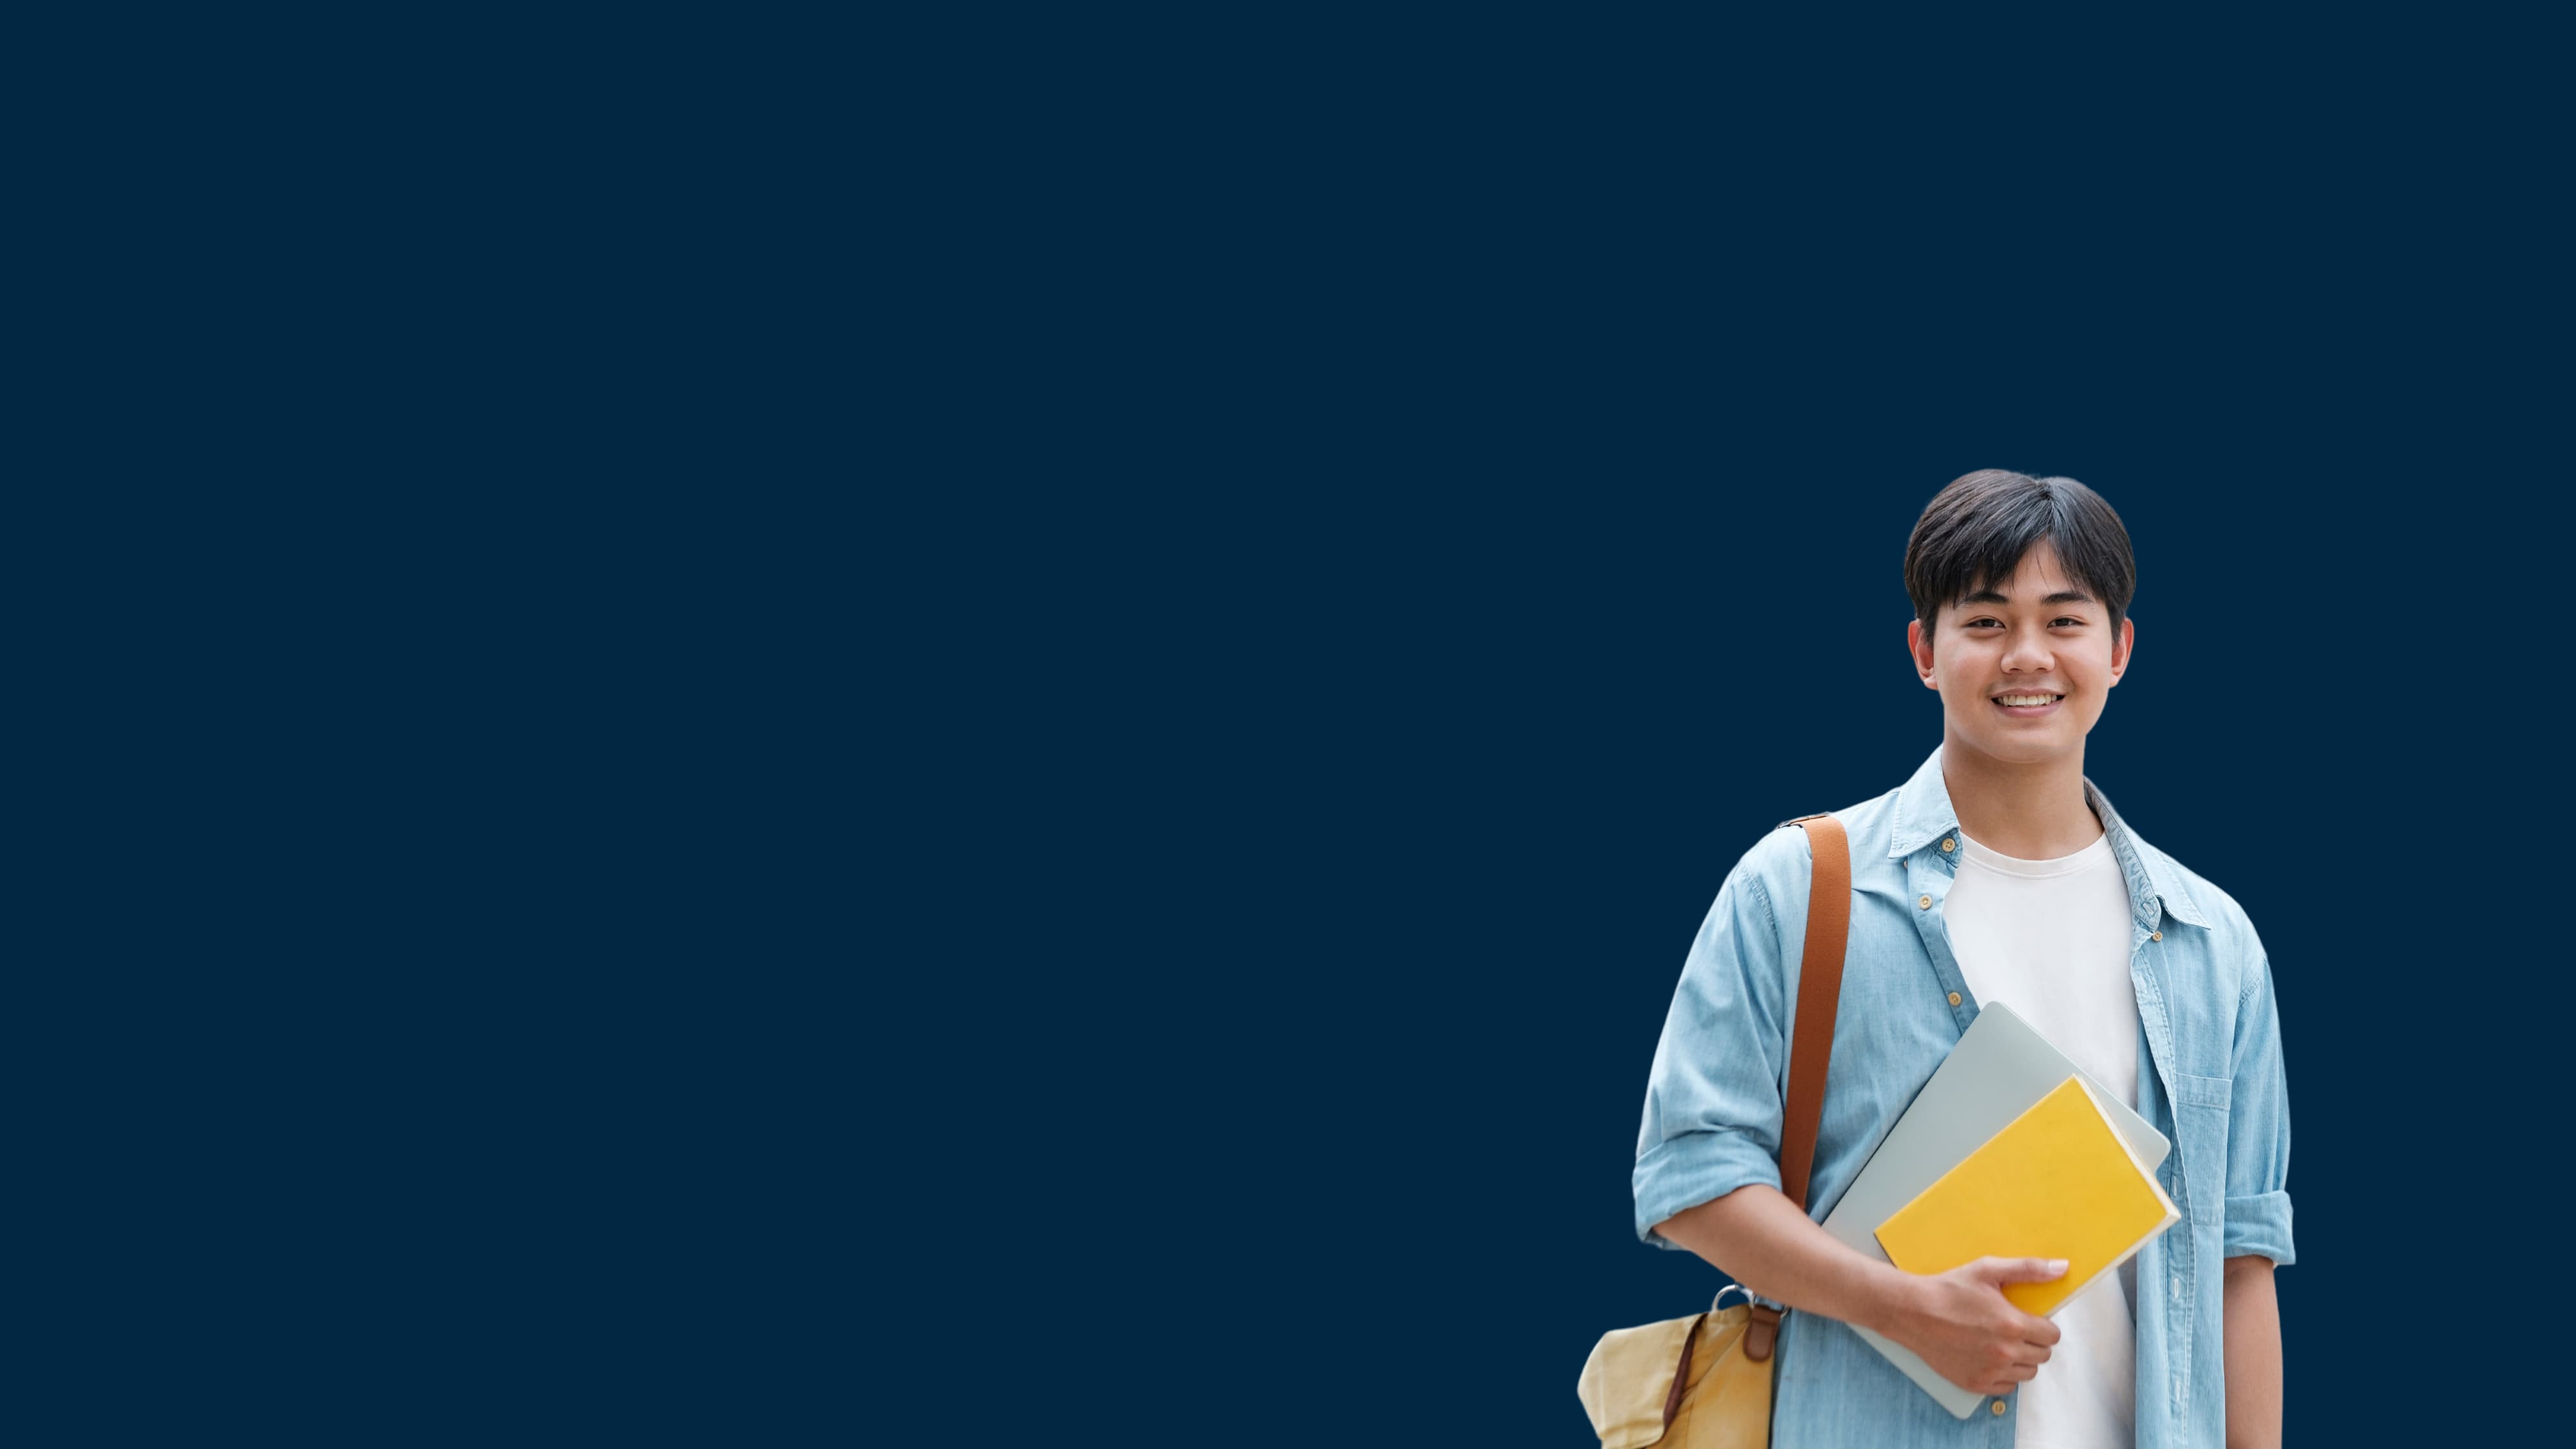
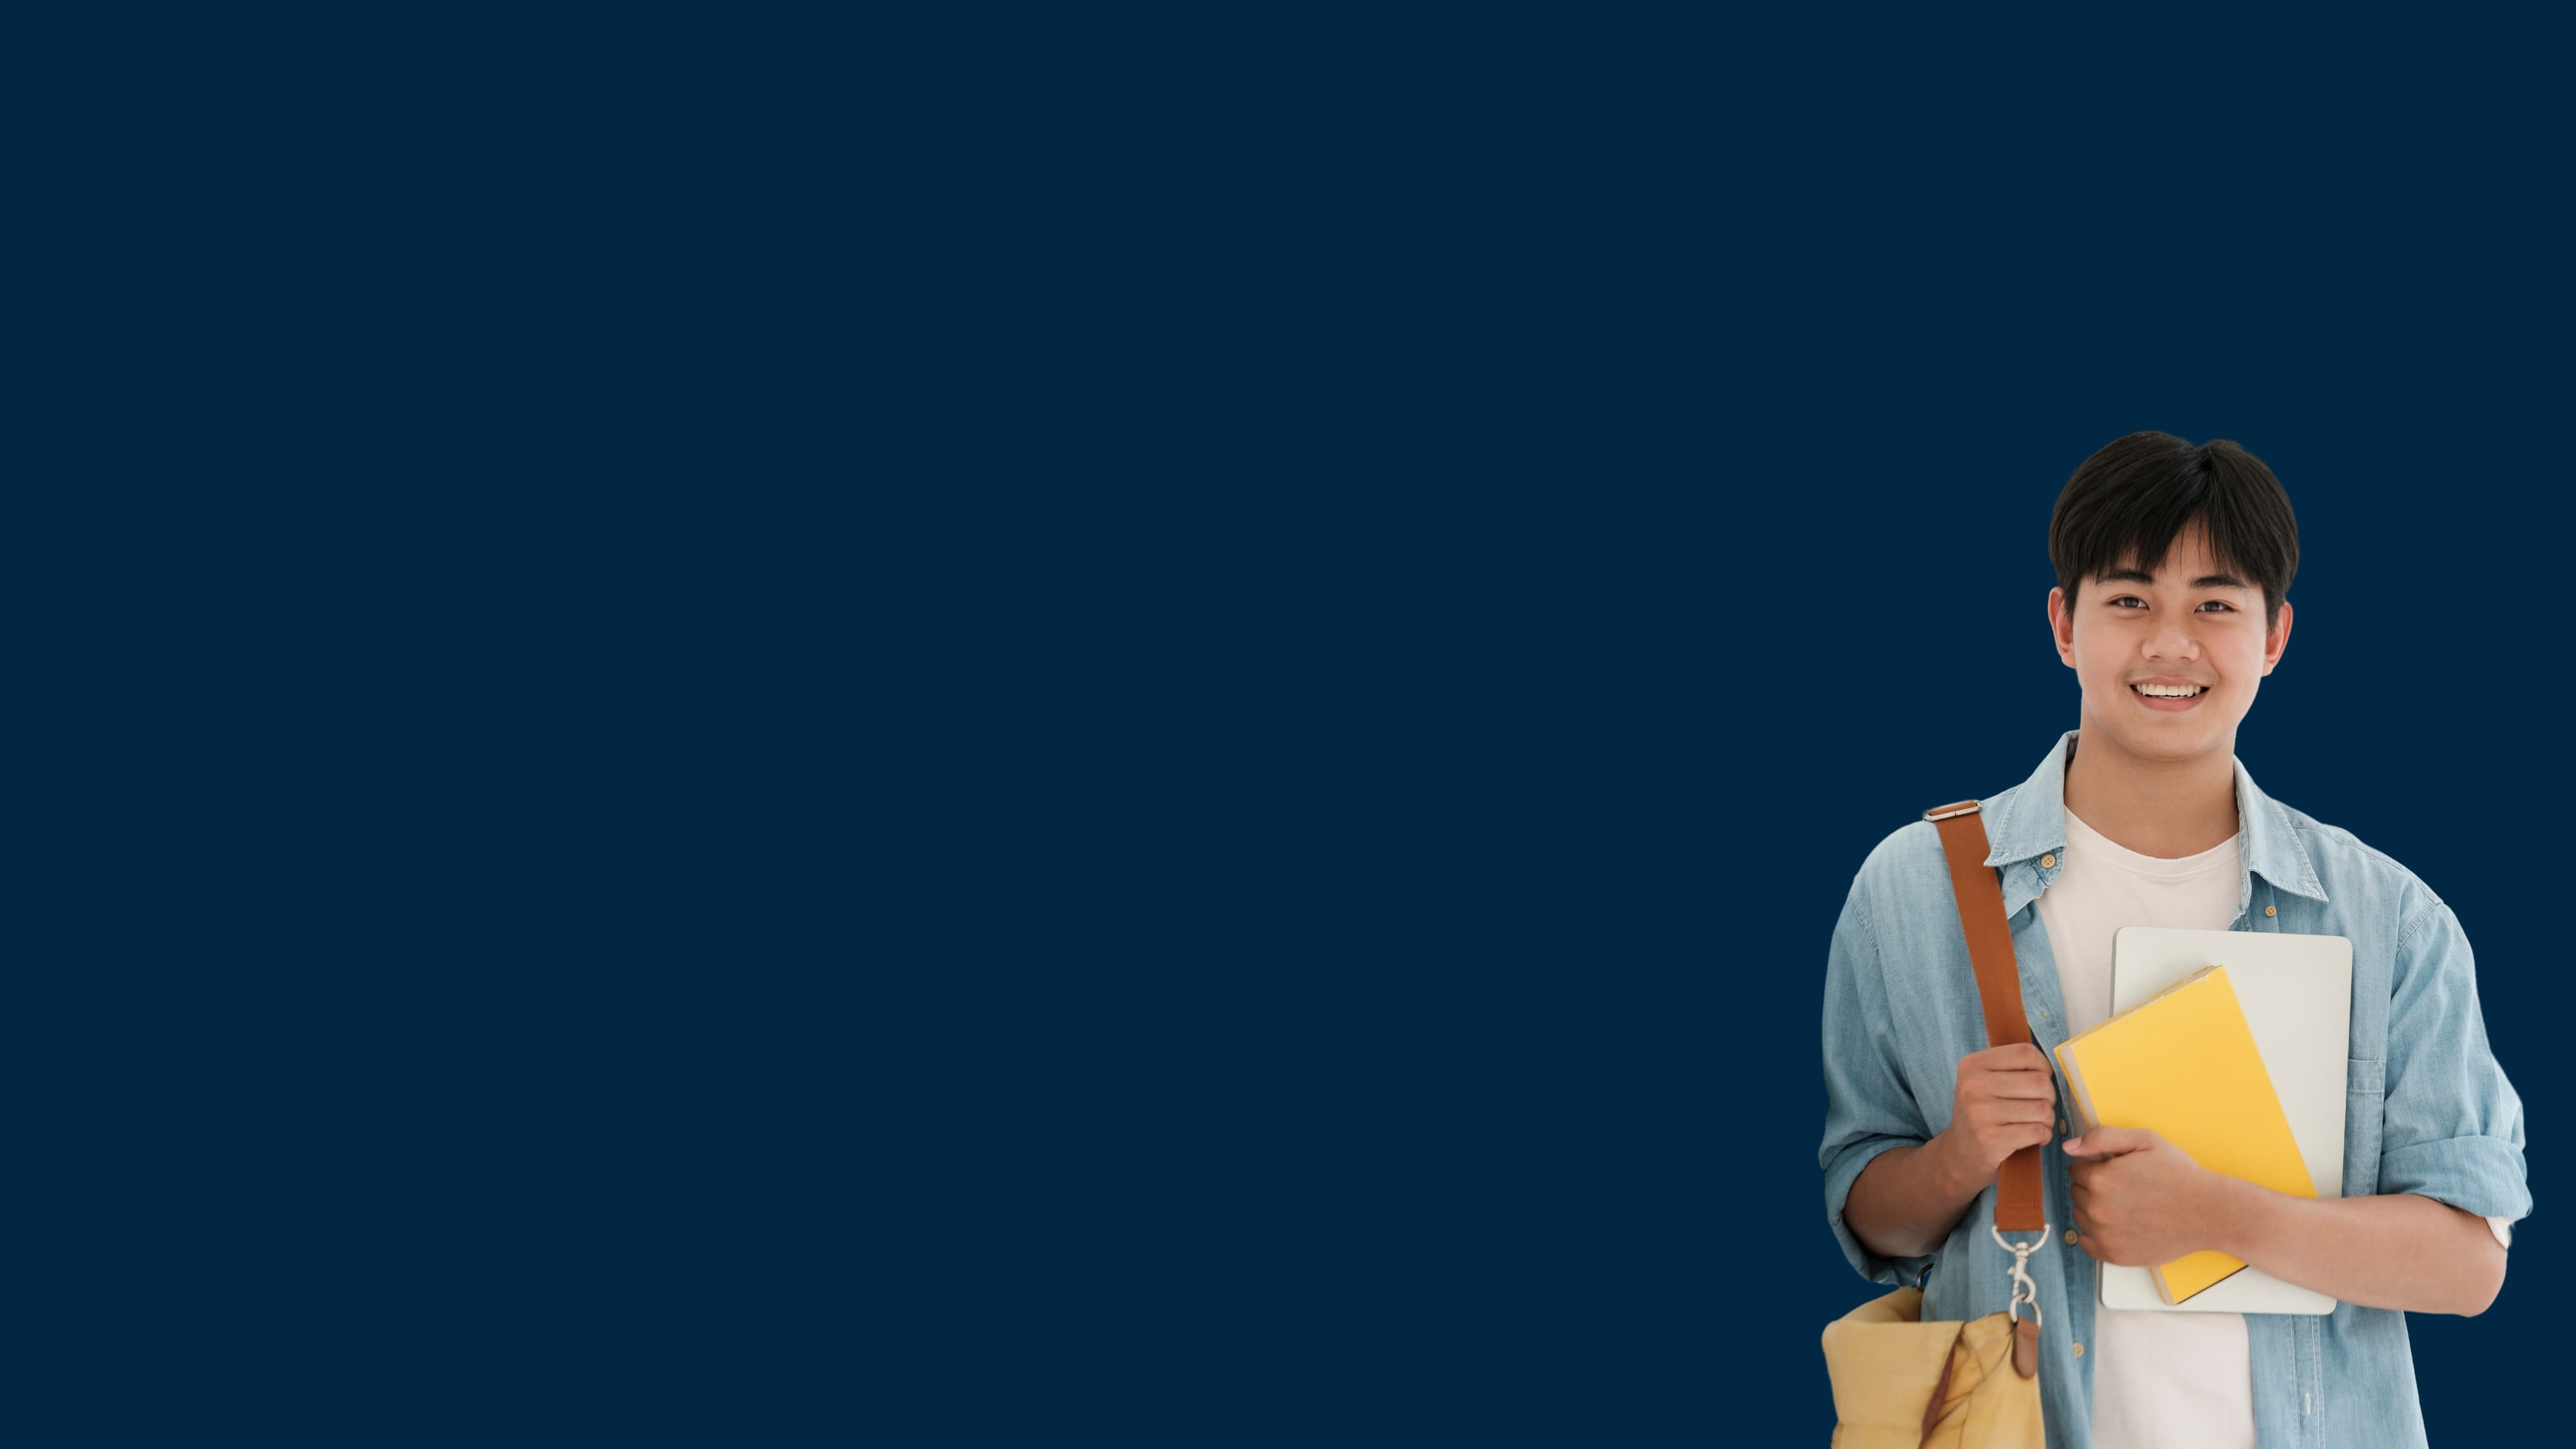
sixth2 commit

Changed region(s): [[0.5938, 0.28, 1.0, 1.0]]

diff --git a/src/components/home/hero/Hero.css b/src/components/home/hero/Hero.css
@@ -1,7 +1,5 @@
-
-
 .hero {
-  background-image: url("../../../../public/images/bg.webp");
+  background-image: url("../../../../public/images/bg.webp"); /* Default for larger screens */
   background-size: cover;
   background-attachment: fixed;
   position: absolute;
@@ -13,33 +11,38 @@
   padding-top: 20%;
   padding-right: 50px;
   color: #fff;
- 
 }
 
 .hero #heading h3 {
   color: #fff;
 }
+
 .hero #heading {
   text-align: left;
   margin: 0;
   padding: 0;
 }
 
-
+/* Mobile-specific styling */
 @media screen and (max-width: 830px) {
   .margin {
     height: 40vh;
   }
+
   .hero {
+    background-image: url("../../../../public/images/bg2.webp"); /* Image for smaller screens */
     background-position: right;
+    background-size: cover; /* Ensures the mobile image fits properly */
     padding-top: 70%;
     height: 100vh;
   }
+
   .hero .row {
     width: 100%;
   }
-}
-.row #heading{
-  font-size: 15px;
-  margin-top: -20px;
+
+  .row #heading {
+    font-size: 15px;
+    margin-top: -20px;
+  }
 }

diff --git a/src/components/about/about.css b/src/components/about/about.css
@@ -26,6 +26,7 @@
 
 .aboutHome {
   height: auto;
+  
 
   
 }
